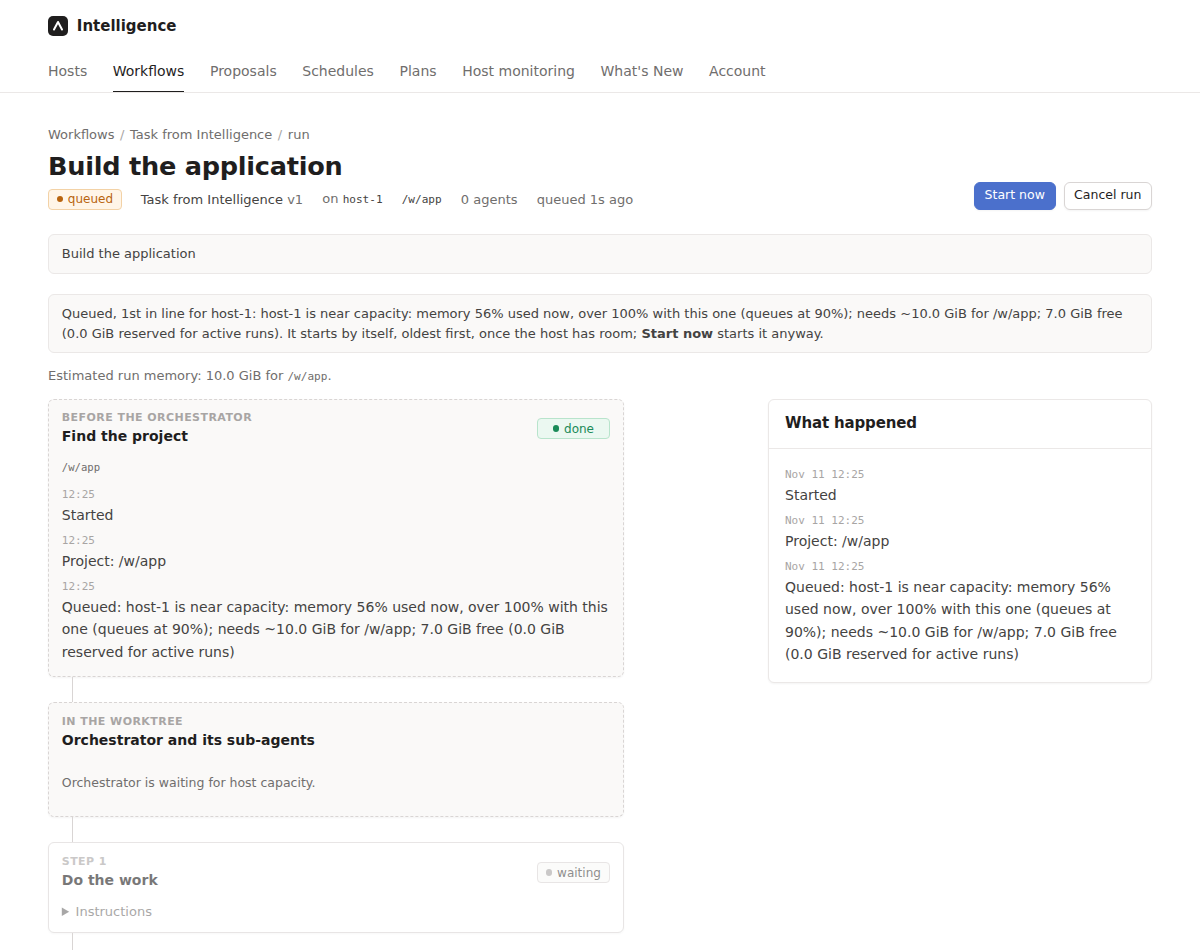
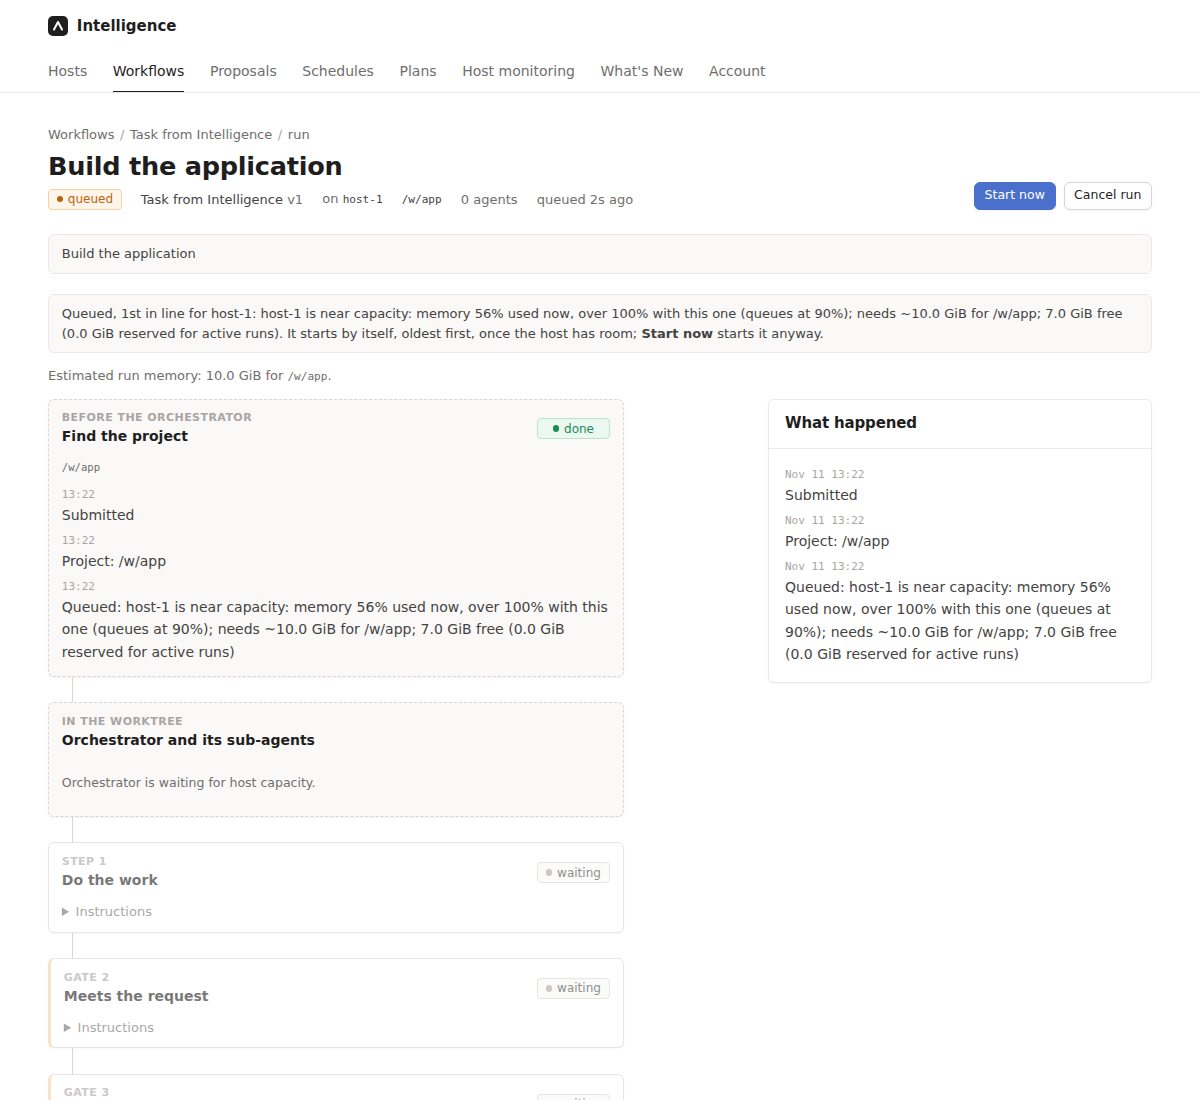
Consolidate repository memory admission and clear dequeued reasons

diff --git a/internal/workflow/queue.go b/internal/workflow/queue.go
@@ -185,19 +185,6 @@ func runsWord(n int) string {
 	return fmt.Sprintf("%d runs", n)
 }
 
-// queueReason is why a new run on host waits, or "" when it can start now: the host has no room,
-// or runs queued before it go first.
-func (e *Engine) queueReason(ctx context.Context, tx pgx.Tx, host, candidate, repo string, memory int64) (string, error) {
-	var ahead int
-	if err := tx.QueryRow(ctx, "SELECT count(*) FROM workflow_run_queue WHERE host = $1", host).Scan(&ahead); err != nil {
-		return "", err
-	}
-	if ahead > 0 {
-		return fmt.Sprintf("%s queued on %s ahead of it", runsWord(ahead), host), nil
-	}
-	return e.room(ctx, tx, host, candidate, repo, memory)
-}
-
 // StartQueued starts, on each host with a queue, its queued runs in order while the host has room (room).
 func (e *Engine) StartQueued(ctx context.Context) error {
 	rows, err := e.p.Query(ctx, "SELECT DISTINCT host FROM workflow_run_queue")
@@ -271,7 +258,7 @@ func (e *Engine) recordDequeue(ctx context.Context, tx pgx.Tx, r run, why string
 	if err := e.event(ctx, tx, r, "dequeued", nil, nil, why); err != nil {
 		return err
 	}
-	_, err := tx.Exec(ctx, "UPDATE workflow_runs SET dequeued_at = $2, updated_at = $2 WHERE id = $1", r.ID, e.Now())
+	_, err := tx.Exec(ctx, "UPDATE workflow_runs SET queue_reason = '', dequeued_at = $2, updated_at = $2 WHERE id = $1", r.ID, e.Now())
 	return err
 }
 

diff --git a/internal/web/repository_review_test.go b/internal/web/repository_review_test.go
@@ -29,8 +29,9 @@ func TestQueueCreationUpgradeDoesNotRelabelLegacyFinder(t *testing.T) {
 		SELECT id,account_id,now(),'queued','capacity' FROM workflow_runs WHERE id=$1`, legacy); err != nil {
 		t.Fatal(err)
 	}
-	if _, err := d.Owner.Exec(t.Context(), `ALTER TABLE workflow_runs DROP COLUMN queued_at_creation;
-		DELETE FROM schema_migrations WHERE version='0038_repository_memory_admission_fixes'`); err != nil {
+	if _, err := d.Owner.Exec(t.Context(), `DROP VIEW workflow_repository_memory, workflow_run_memory;
+		ALTER TABLE workflow_runs DROP COLUMN queued_at_creation, DROP COLUMN project_selected, DROP COLUMN estimated_memory_bytes;
+		DELETE FROM schema_migrations WHERE version='0039_workflow_repository_memory'`); err != nil {
 		t.Fatal(err)
 	}
 	if err := db.Migrate(t.Context(), d.Owner); err != nil {

diff --git a/internal/web/runqueue_test.go b/internal/web/runqueue_test.go
@@ -94,6 +94,9 @@ func TestABusyHostQueuesNewRunsAndStartsThemInOrder(t *testing.T) {
 	if s := runField(t, h, first, "status"); s != "starting" {
 		t.Fatalf("the first queued run should start first: %v", s)
 	}
+	if reason := runField(t, h, first, "queue_reason"); reason != "" {
+		t.Errorf("dequeued run retains stale reason: %v", reason)
+	}
 	if ws := runField(t, h, first, "workspace_title").(string); !strings.Contains(ws, runHex(first)) {
 		t.Errorf("workspace = %q", ws)
 	}

diff --git a/internal/workflow/engine.go b/internal/workflow/engine.go
@@ -455,7 +455,7 @@ func (e *Engine) StartRunTx(ctx context.Context, tx pgx.Tx, account int64, workf
 		if err != nil {
 			return err
 		}
-		why, err := e.queueReason(ctx, tx, host, "", repo, estimate)
+		why, err := e.room(ctx, tx, host, "", repo, estimate)
 		if err != nil {
 			return err
 		}

diff --git a/README.md b/README.md
@@ -881,7 +881,7 @@ those just before it.
 A new queued run has no agents or commands yet; a run queued after repository selection retains
 its archived finder history. A ready retry keeps its startup phase and joins
 the queue through `workflow_runs.start_retry_queued`. `workflow_runs.queue_reason` says why it waits
-(kept current while it waits, and kept after), its events say when it was `queued` and
+(kept current while it waits, and cleared on dequeue), its events say when it was `queued` and
 `dequeued`, and `workflow_run_queue` lists each host's queue in order (`position` 1 is next). The
 runs list and the run page show it queued, where in line (“2nd in line for host-1”) and why, and
 the run page says when it was queued, not started; the run page's **Start now** starts it at once,
